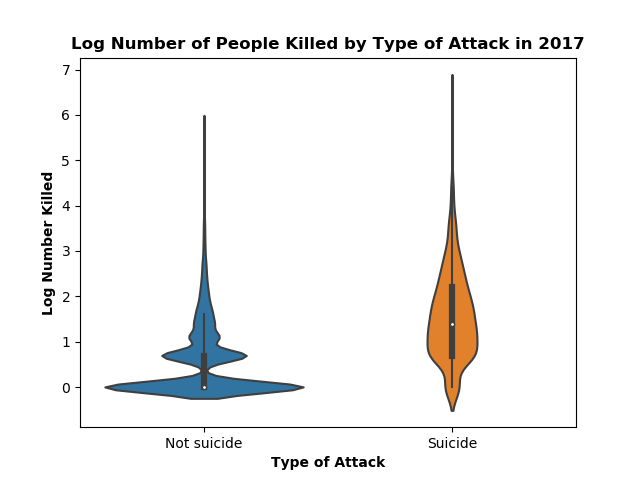
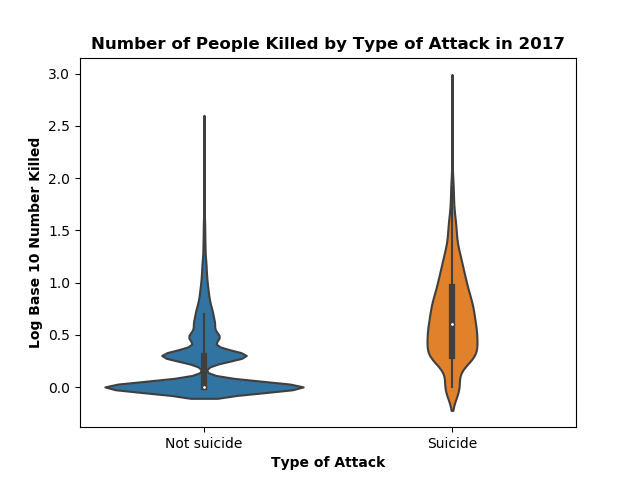
edits to violin plot

diff --git a/code/code_for_graphing.py b/code/code_for_graphing.py
@@ -197,14 +197,14 @@ def make_violin(df):
     numeric_cols = [col for col in df if df[col].dtype.kind != 'O']
     df[numeric_cols] += 1
 
-    df['log_wound'] = np.log(df['nwound'])
-    df['log_kill'] = np.log(df['nkill'])
+    df['log_wound'] = np.log10(df['nwound'])
+    df['log_kill'] = np.log10(df['nkill'])
 
     df_plot = df[['suicide_text','log_kill', 'log_wound']]
     ax = sns.violinplot(x = 'suicide_text', y = 'log_kill', data = df_plot)
 
     plt.xlabel('Type of Attack', weight='bold')
-    plt.ylabel('Log Number Killed', weight='bold')
-    plt.title('Log Number of People Killed by Type of Attack in 2017', weight='bold')
+    plt.ylabel('Log Base 10 Number Killed', weight='bold')
+    plt.title('Number of People Killed by Type of Attack in 2017', weight='bold')
     # plt.show()
     plt.savefig('images/killed')
